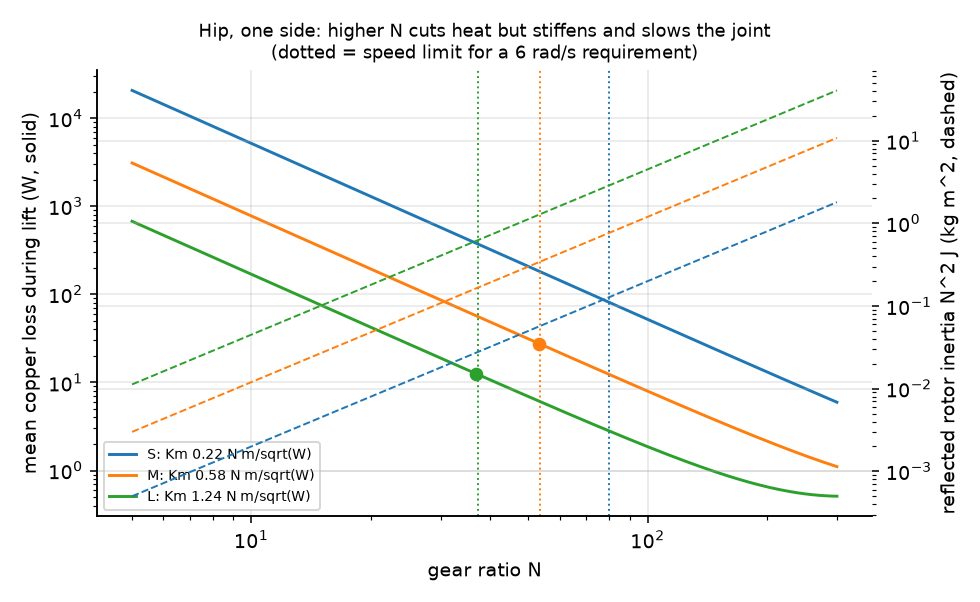
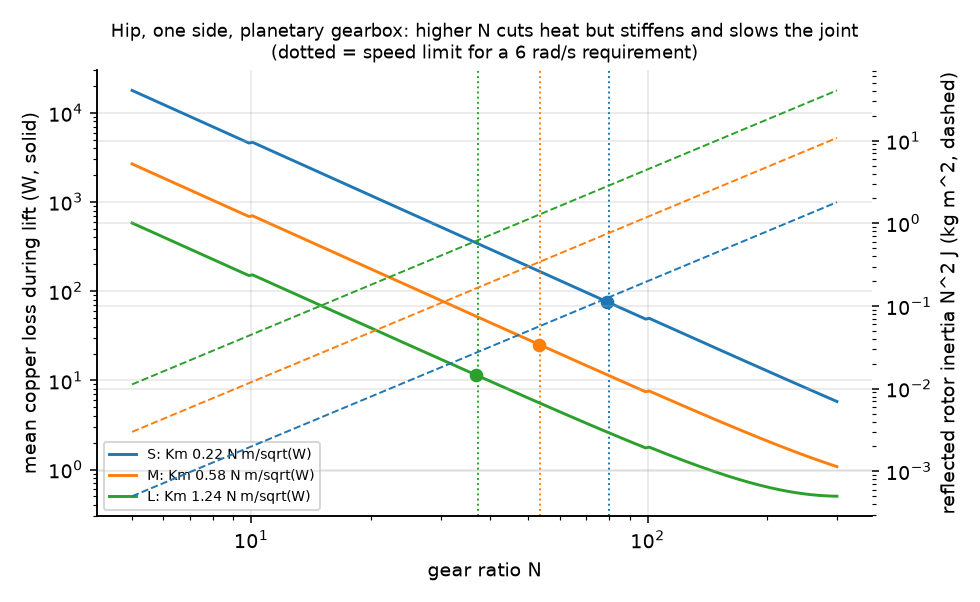
Show what gearbox efficiency and backlash do to the ratio choice (Closes #4)
The hip trade and the tote shuttle now use the planetary model, and the
shuttle lowers the tote with the gearbox backdriven instead of assuming
lowering costs the same as lifting. The shuttle limits move from 13:1 to
12:1 at the hip and from 10:1 to 9.5:1 at the shoulder.

With the gearbox's own heat counted, the total stops falling past about
100:1: 18.4 W at 100:1, 24.5 W once a third stage is needed, and still 18 W
at 300:1. A strain-wave gearbox at an assumed 75% makes 2.6 times the heat of
a two-stage planetary at 50:1, and planetary backlash (about 11 arcmin at
50:1, or 3 mm at the hands) barely grows with ratio because the last stage
sets it.

Adds the figure, the README section and the derivations.

diff --git a/examples/make_figures.py b/examples/make_figures.py
@@ -90,7 +90,7 @@ fig, ax = plt.subplots(figsize=(7, 4.3))
 ax2 = ax.twinx()
 results["hip_ratio_trade"] = {}
 for mot, c in zip(A.MOTORS, ("C0", "C1", "C2")):
-    ratios, loss, ok = A.sweep_ratio(mot, tau_h, qd_h, qdd_h)
+    ratios, loss, ok = A.sweep_ratio(mot, tau_h, qd_h, qdd_h, gearbox=A.PLANETARY)
     n_speed = mot.w_max / SPEED_FLOOR * 0.8  # keep 20% margin for torque at that speed
     ax.plot(ratios, loss, color=c, label=f"{mot.name.split()[-1]}: Km {mot.km:.2f} N m/sqrt(W)")
     ax.axvline(n_speed, color=c, ls=":", lw=1)
@@ -109,9 +109,61 @@ ax.set_xlabel("gear ratio N")
 ax.set_ylabel("mean copper loss during lift (W, solid)")
 ax2.set_ylabel("reflected rotor inertia N^2 J (kg m^2, dashed)")
 ax2.set_yscale("log")
-ax.set_title("Hip, one side: higher N cuts heat but stiffens and slows the joint\n(dotted = speed limit for a 6 rad/s requirement)", fontsize=9)
+ax.set_title("Hip, one side, planetary gearbox: higher N cuts heat but stiffens and slows the joint\n(dotted = speed limit for a 6 rad/s requirement)", fontsize=9)
 ax.legend(fontsize=7, loc="lower left")
 save(fig, "hip_ratio_trade.png")
+
+# ------------------------------------------------------------------ 2b. gearbox efficiency: winding heat vs total heat
+mot_m = A.MOTORS[1]
+fig, axes = plt.subplots(1, 2, figsize=(11, 4))
+results["gearbox"] = {}
+for gb, c in ((A.PLANETARY, "C0"), (A.STRAIN_WAVE, "C3")):
+    lo, hi = gb.ratio_range
+    ns = np.geomspace(max(5, lo), min(300, hi), 160)
+    copper, gear = [], []
+    for n in ns:
+        dr = A.Drive(mot_m, n, gearbox=gb)
+        copper.append(np.mean(dr.copper_loss(tau_h, qdd_h, qd_h)))
+        gear.append(np.mean(dr.gearbox_loss(tau_h, qd_h)))
+    copper, gear = np.array(copper), np.array(gear)
+    total = copper + gear
+    k = int(np.argmin(total))
+    axes[0].plot(ns, copper, color=c, label=f"{gb.name.split(' (')[0]}: winding (copper)")
+    axes[0].plot(ns, total, color=c, ls="--", label=f"{gb.name.split(' (')[0]}: winding + gearbox")
+    axes[0].plot(ns[k], total[k], "o", color=c)
+    results["gearbox"][gb.name] = {"min_total_heat_ratio": round(float(ns[k]), 1), "min_total_heat_W": round(float(total[k]), 2),
+                                   "copper_W_at_that_ratio": round(float(copper[k]), 2), "gearbox_W_at_that_ratio": round(float(gear[k]), 2)}
+for gb in (A.PLANETARY, A.STRAIN_WAVE):
+    dr = A.Drive(mot_m, 50.0, gearbox=gb)
+    results["gearbox"][gb.name]["at_50_to_1"] = {"copper_W": round(float(np.mean(dr.copper_loss(tau_h, qdd_h, qd_h))), 2),
+                                                 "gearbox_W": round(float(np.mean(dr.gearbox_loss(tau_h, qd_h))), 2),
+                                                 "efficiency": round(gb.efficiency(50.0), 3)}
+axes[0].set_xscale("log")
+axes[0].set_yscale("log")
+axes[0].set_xlabel("gear ratio N")
+axes[0].set_ylabel("mean heat during the lift, hip, one side (W)")
+axes[0].set_title("planetary efficiency steps down at 10:1 and 100:1;\ncounting the gearbox's own heat, the total stops falling past about 100:1", fontsize=9)
+axes[0].legend(fontsize=7)
+ns = np.geomspace(5, 300, 300)
+d.qpos[:] = r.q[0]  # hip-to-hands distance in the pick posture, where a stoop reaches furthest
+mujoco.mj_kinematics(m, d)
+reach = float(np.linalg.norm(d.site("grip").xpos[[0, 2]] - d.body("trunk").xpos[[0, 2]]))
+play = np.array([A.PLANETARY.backlash_arcmin(n) for n in ns])
+axes[1].plot(ns, play, color="C0", label="planetary (10 arcmin per stage, assumed)")
+axes[1].axhline(0.0, color="C3", label="strain wave (essentially none)")
+axes[1].set_xscale("log")
+axes[1].set_xlabel("gear ratio N")
+axes[1].set_ylabel("backlash at the joint (arcmin)")
+ax2 = axes[1].twinx()
+ax2.set_ylabel(f"hand play from hip backlash at {reach:.2f} m reach (mm)")
+axes[1].set_ylim(-0.5, 15)
+ax2.set_ylim(np.radians(-0.5 / 60) * reach * 1000, np.radians(15 / 60) * reach * 1000)
+axes[1].set_title("backlash is set by the last stage, so it barely grows with N", fontsize=9)
+axes[1].legend(fontsize=7, loc="lower right")
+fig.suptitle("Hip, 'M' motor, stoop lift: gearbox efficiency and backlash against ratio", fontsize=10)
+save(fig, "gearbox_tradeoffs.png")
+results["gearbox"]["hip_reach_at_pick_m"] = round(reach, 3)
+results["gearbox"]["hand_play_mm_planetary_at_50_to_1"] = round(float(np.radians(A.PLANETARY.backlash_arcmin(50) / 60) * reach * 1000), 1)
 
 # ------------------------------------------------------------------ 3. tote shuttle: which joint overheats first?
 mot = A.MOTORS[1]
@@ -131,9 +183,13 @@ RATE = 120  # totes per hour: one every 30 s
 def steady_T(j_idx, ratio, rate):
     cycle = 3600.0 / rate
     walk = max(cycle - 2 * lift_T, 0.0) / 2  # carry loaded half the remaining time, return empty the other half
-    dr = A.Drive(mot, ratio)
-    e_lift = np.trapezoid(dr.copper_loss(r.tau[:, j_idx] / 2, qdd[:, j_idx]), r.t)
-    p_avg = (2 * e_lift + walk * dr.copper_loss(hold_tau[j_idx]) + walk * dr.copper_loss(empty_tau[j_idx])) / cycle
+    dr = A.Drive(mot, ratio, gearbox=A.PLANETARY)
+    tau_j, qd_j, qdd_j = r.tau[:, j_idx] / 2, r.qd[:, j_idx], qdd[:, j_idx]
+    e_lift = np.trapezoid(dr.copper_loss(tau_j, qdd_j, qd_j), r.t)
+    # Lowering is the lift played backwards: with no damping the torques are the same at each posture,
+    # but the speeds flip sign, so the load drives the gearbox and friction helps.
+    e_lower = np.trapezoid(dr.copper_loss(tau_j, qdd_j, -qd_j), r.t)
+    p_avg = (e_lift + e_lower + walk * dr.copper_loss(hold_tau[j_idx]) + walk * dr.copper_loss(empty_tau[j_idx])) / cycle
     return A.steady_winding_temperature(mot, p_avg)
 
 

diff --git a/DERIVATIONS.md b/DERIVATIONS.md
@@ -52,6 +52,14 @@ $$\tau_m = \frac{\tau_j}{N\eta} + J_m N \ddot q_j$$
 
 **Optimal ratio for a pure inertia.** If $\tau_j = J_L\ddot q$, then $\tau_m = \ddot q\,(J_L/N + J_m N)$. Setting $d/dN = 0$ gives $N^* = \sqrt{J_L/J_m}$: the reflected rotor inertia then equals the load inertia (`test_inertia_matched_ratio_minimizes_loss_for_pure_inertia`).
 
+**Gearbox efficiency against ratio (`actuator.Gearbox`).** A planetary gearbox does at most about 10:1 per stage, so a ratio $N$ needs $k = \lceil \log N/\log 10 \rceil$ stages, and with per-stage efficiency $\eta_s$ (0.97 assumed) the gearbox runs at $\eta = \eta_s^k$. That steps down at 10:1 and 100:1. A strain-wave gearbox does 30 to 160:1 in one stage at a lower, roughly constant efficiency (0.75 assumed).
+
+**Backdriving.** When the load drives the motor ($\tau_j \dot q_j < 0$, like lowering a tote), friction still opposes the motion. If the losses are Coulomb friction, a fraction $1 - \eta$ of the forward input power is lost. Running backwards, the same friction torque subtracts instead of adds, which gives a backwards efficiency $\eta_b = 2 - 1/\eta$. So $\tau_m = \tau_j\eta_b/N$ going down against $\tau_j/(N\eta)$ going up. Below $\eta = 0.5$, $\eta_b \le 0$ and the gearbox self-locks. The heat made in the gearbox is $P_j(1/\eta - 1)$ forward and $|P_j|(1 - \eta_b)$ backward, so motor shaft power always equals joint power plus gearbox heat (`test_gearbox_power_balance_both_ways`). Static holding is taken at the forward value, which is conservative.
+
+**Lowering.** Played backwards, a trajectory has the same $q$ and $\ddot q$ at each posture and $\dot q$ flipped. The Coriolis terms are quadratic in $\dot q$, so with no damping the joint torques are identical, and only the direction of power flow changes. The shuttle's lowering phase reuses the lift's torques with $\dot q \to -\dot q$.
+
+**Backlash.** If each stage has play $b$ at its own output, the play of stage $i$ (counting back from the output) reaches the output divided by the ratio of the $i$ stages after it, $b_\text{out} = \sum_i b/n_s^i$. With 10 arcmin per stage (assumed), two 10:1 stages give 11 arcmin. The last stage sets it, so it barely grows with $N$.
+
 **Gravity-dominated tasks.** These have no such optimum, since the loss just keeps falling as $1/N^2$. The ratio is then capped by the speed needed for *other* tasks and by impact and backdrivability ($N^2 J_m$). That is why the README shows a trade space rather than a single answer.
 
 ## 5. Winding temperature
@@ -86,6 +94,6 @@ $$\tau_\text{gear} = \omega_0\, N^2J_m\sqrt{\frac{k_e}{J_L + N^2J_m}}$$
 
 - Sagittal plane only, with left and right sides lumped and the feet bolted down.
 - Contact forces with the tote and floor are not resolved.
-- Gearbox efficiency is a constant, and friction and backlash are not modeled.
+- Gearbox efficiency comes from a stage count with assumed per-stage values and pure Coulomb friction, with no speed- or load-dependent losses. Backlash is reported but not fed into the dynamics.
 - The motors are illustrative, not catalogue parts.
 - The CoP uses a quasi-static vertical load.

diff --git a/README.md b/README.md
@@ -28,7 +28,7 @@ I expected to find an optimal gear ratio and got something else. For a slow lift
 
 <img src="docs/figures/hip_ratio_trade.png" width="49%"> <img src="docs/figures/shuttle_thermal.png" width="49%">
 
-On the right, the same mid-size motor at every joint does 120 totes an hour (lift, carry, lower, walk back). The hip overheats first, below about 13:1, and the shoulder holding the tote out in front is next at about 10:1. That's interesting because the low ratios that make a robot backdrivable and safe around people (6 to 10:1) are right where these two joints run out of thermal margin.
+On the right, the same mid-size motor at every joint does 120 totes an hour (lift, carry, lower, walk back). The hip overheats first, below about 12:1, and the shoulder holding the tote out in front is next at about 9.5:1. That's interesting because the low ratios that make a robot backdrivable and safe around people (6 to 10:1) are right where these two joints run out of thermal margin.
 
 ## Do series springs help?
 
@@ -37,6 +37,16 @@ I modeled the hip running into something stiff at 1 rad/s, with a spring between
 <img src="docs/figures/sea_impact.png" width="55%">
 
 There's also a quick air-core vs iron-core motor comparison ([figure](docs/figures/aircore_vs_iron.png)) and a CAD envelope for the hip actuator: motor bay, gearbox bay and output flange ([STEP](cad/hip_actuator_envelope.step)).
+
+## What the gearbox costs
+
+I first used a constant 90% gearbox efficiency. A real planetary gearbox adds a stage for every 10:1 or so, and each stage costs a few percent, so I made efficiency step down with the number of stages (0.97 per stage, an assumption) and counted the gearbox's own friction heat too. The winding heat still keeps falling with ratio, but the total doesn't. Past about 100:1 the gearbox makes most of the heat. The total is 18.4 W at 100:1, jumps to 24.5 W once a third stage is needed, and is still 18 W at 300:1.
+
+Lowering a tote runs the gearbox backwards, with the load driving the motor, and then friction helps hold the load instead of fighting the motor. For friction-type losses the backwards efficiency is $2 - 1/\eta$, so the motor needs less torque going down than coming up. The shuttle numbers above include that.
+
+A strain-wave gearbox gets a high ratio in one stage with essentially no backlash, but at an assumed 75% efficiency it makes 2.6 times the heat of a two-stage planetary at 50:1 (104 W against 40 W), most of it in the gearbox. Backlash barely depends on the ratio, because each stage's play reaches the output divided by the ratio of the stages after it, so the last stage sets it. At 50:1 that's about 11 arcmin, which lets the hands wander about 3 mm at the hip's 0.92 m reach.
+
+<img src="docs/figures/gearbox_tradeoffs.png" width="95%">
 
 <!-- TODO(Aneesh): replace or add next to the generated envelope with your own SolidWorks model, e.g.
 <img src="docs/photos/hip_actuator_solidworks.png" width="60%">
